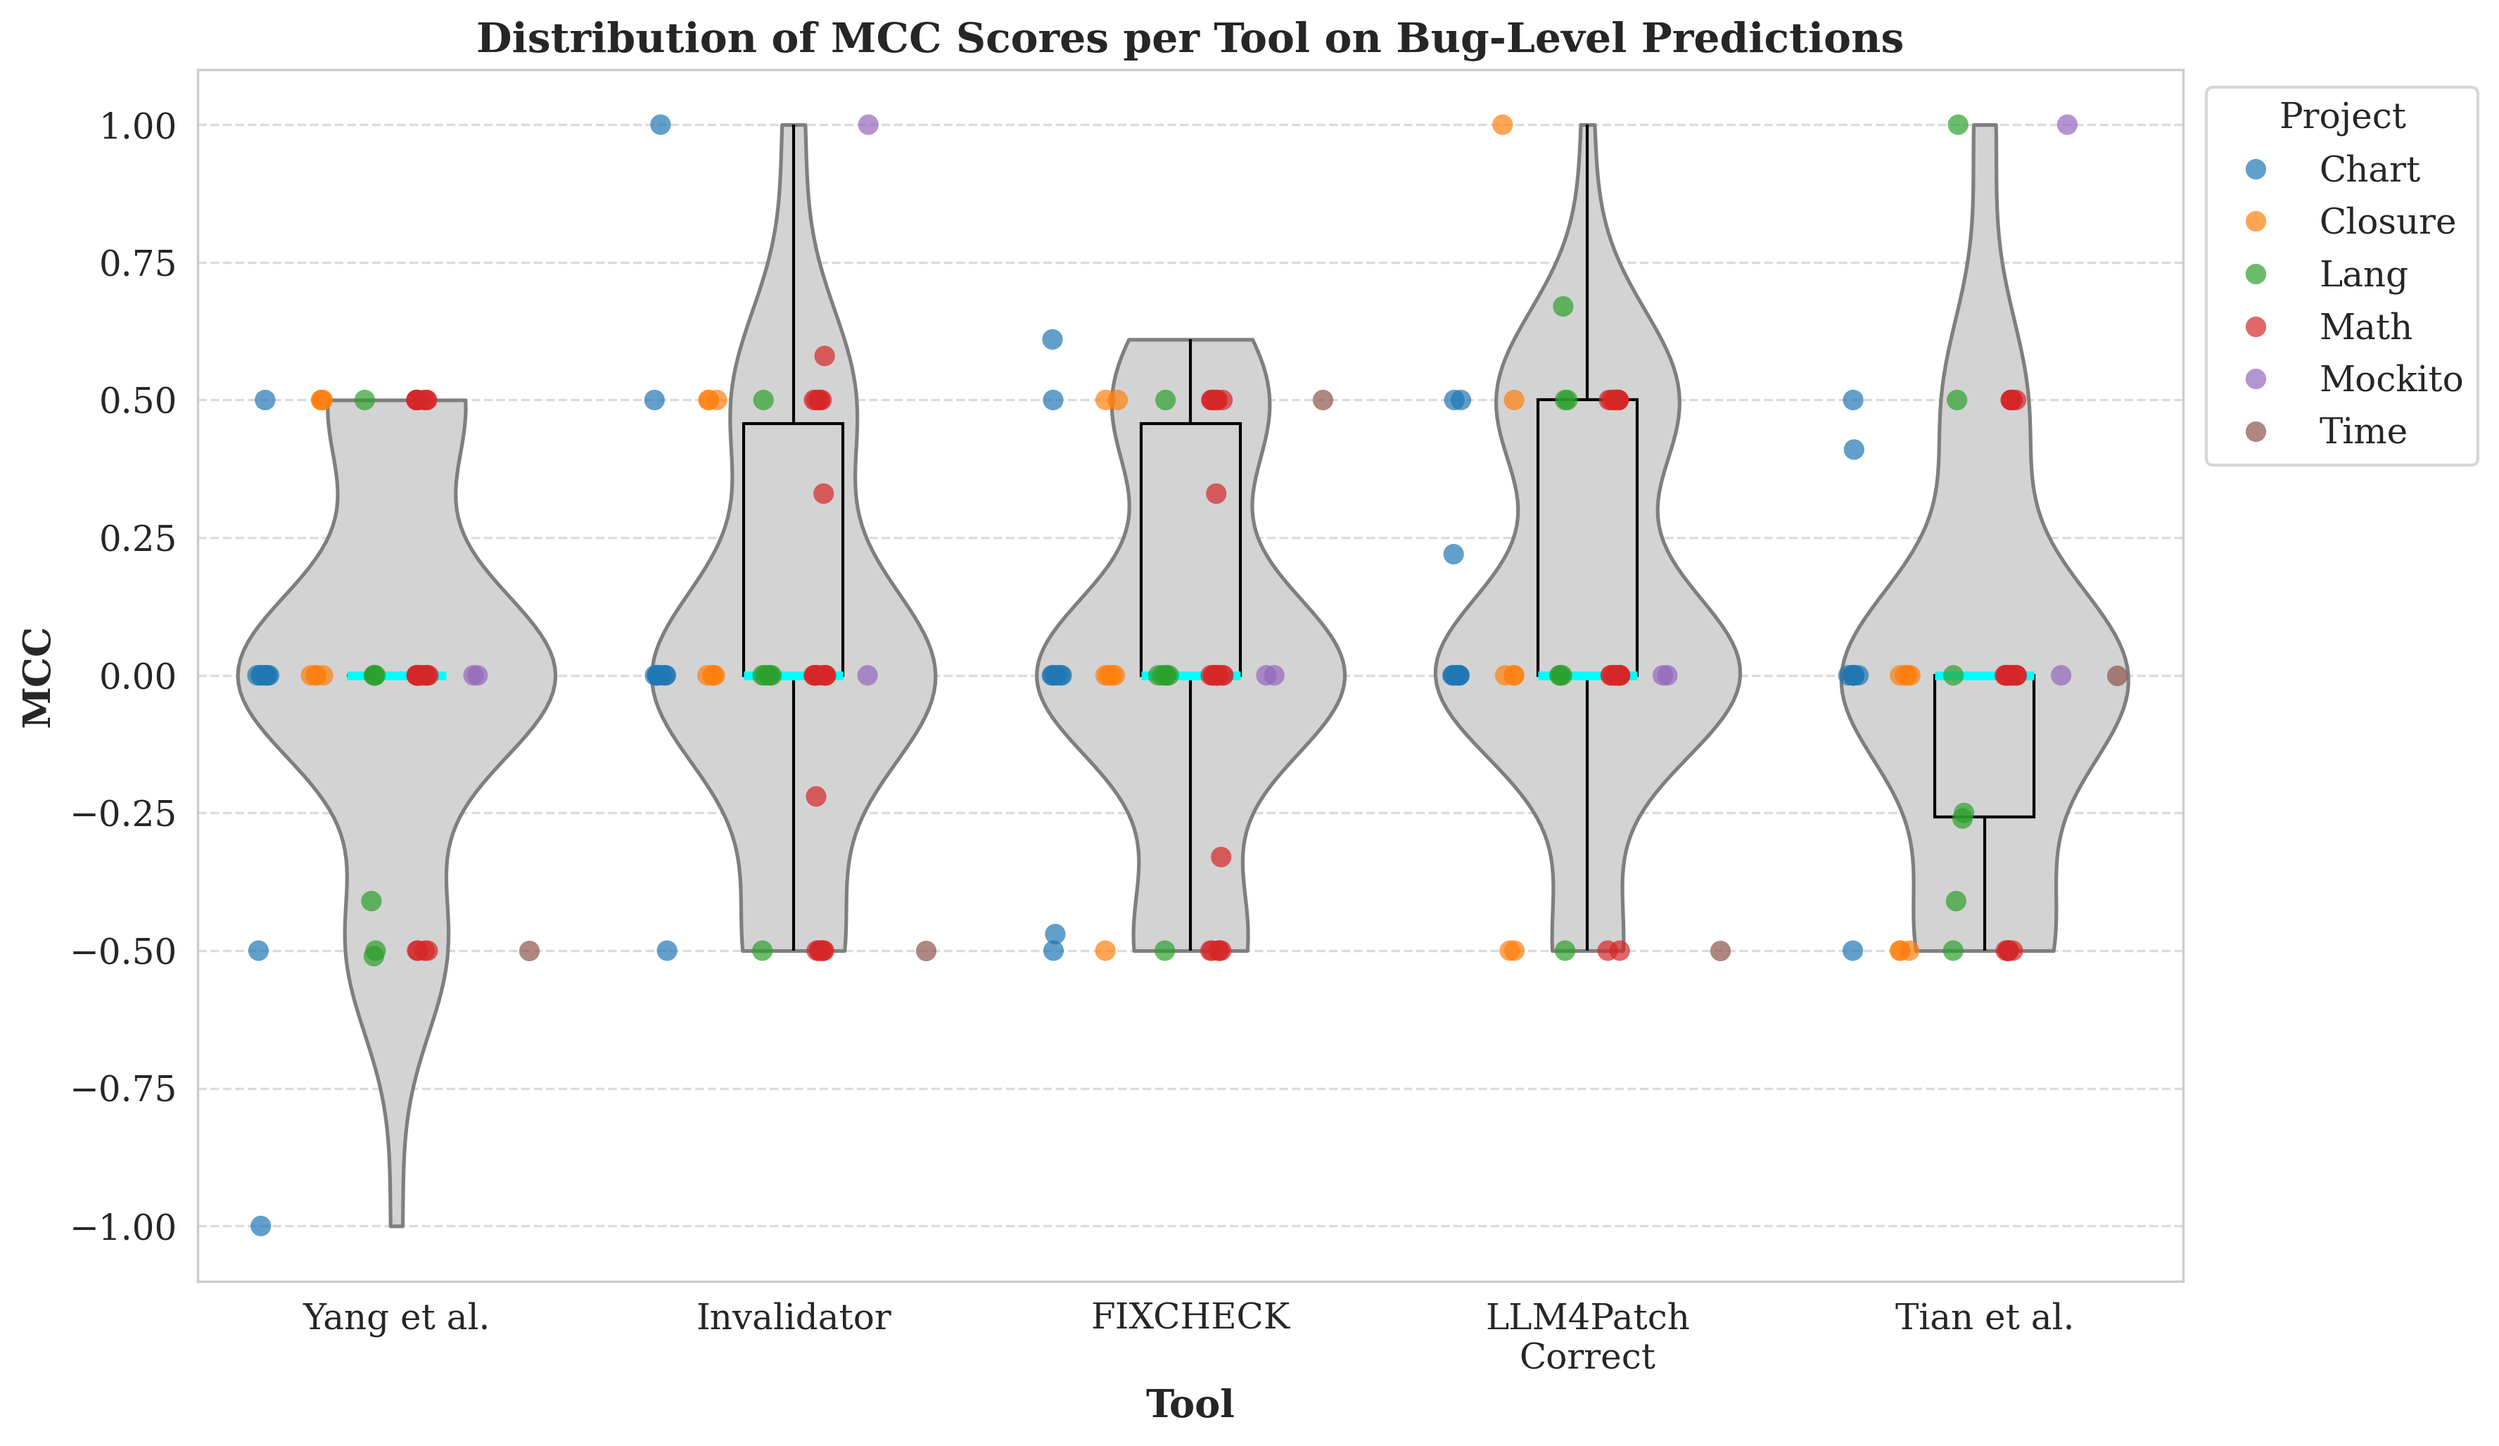
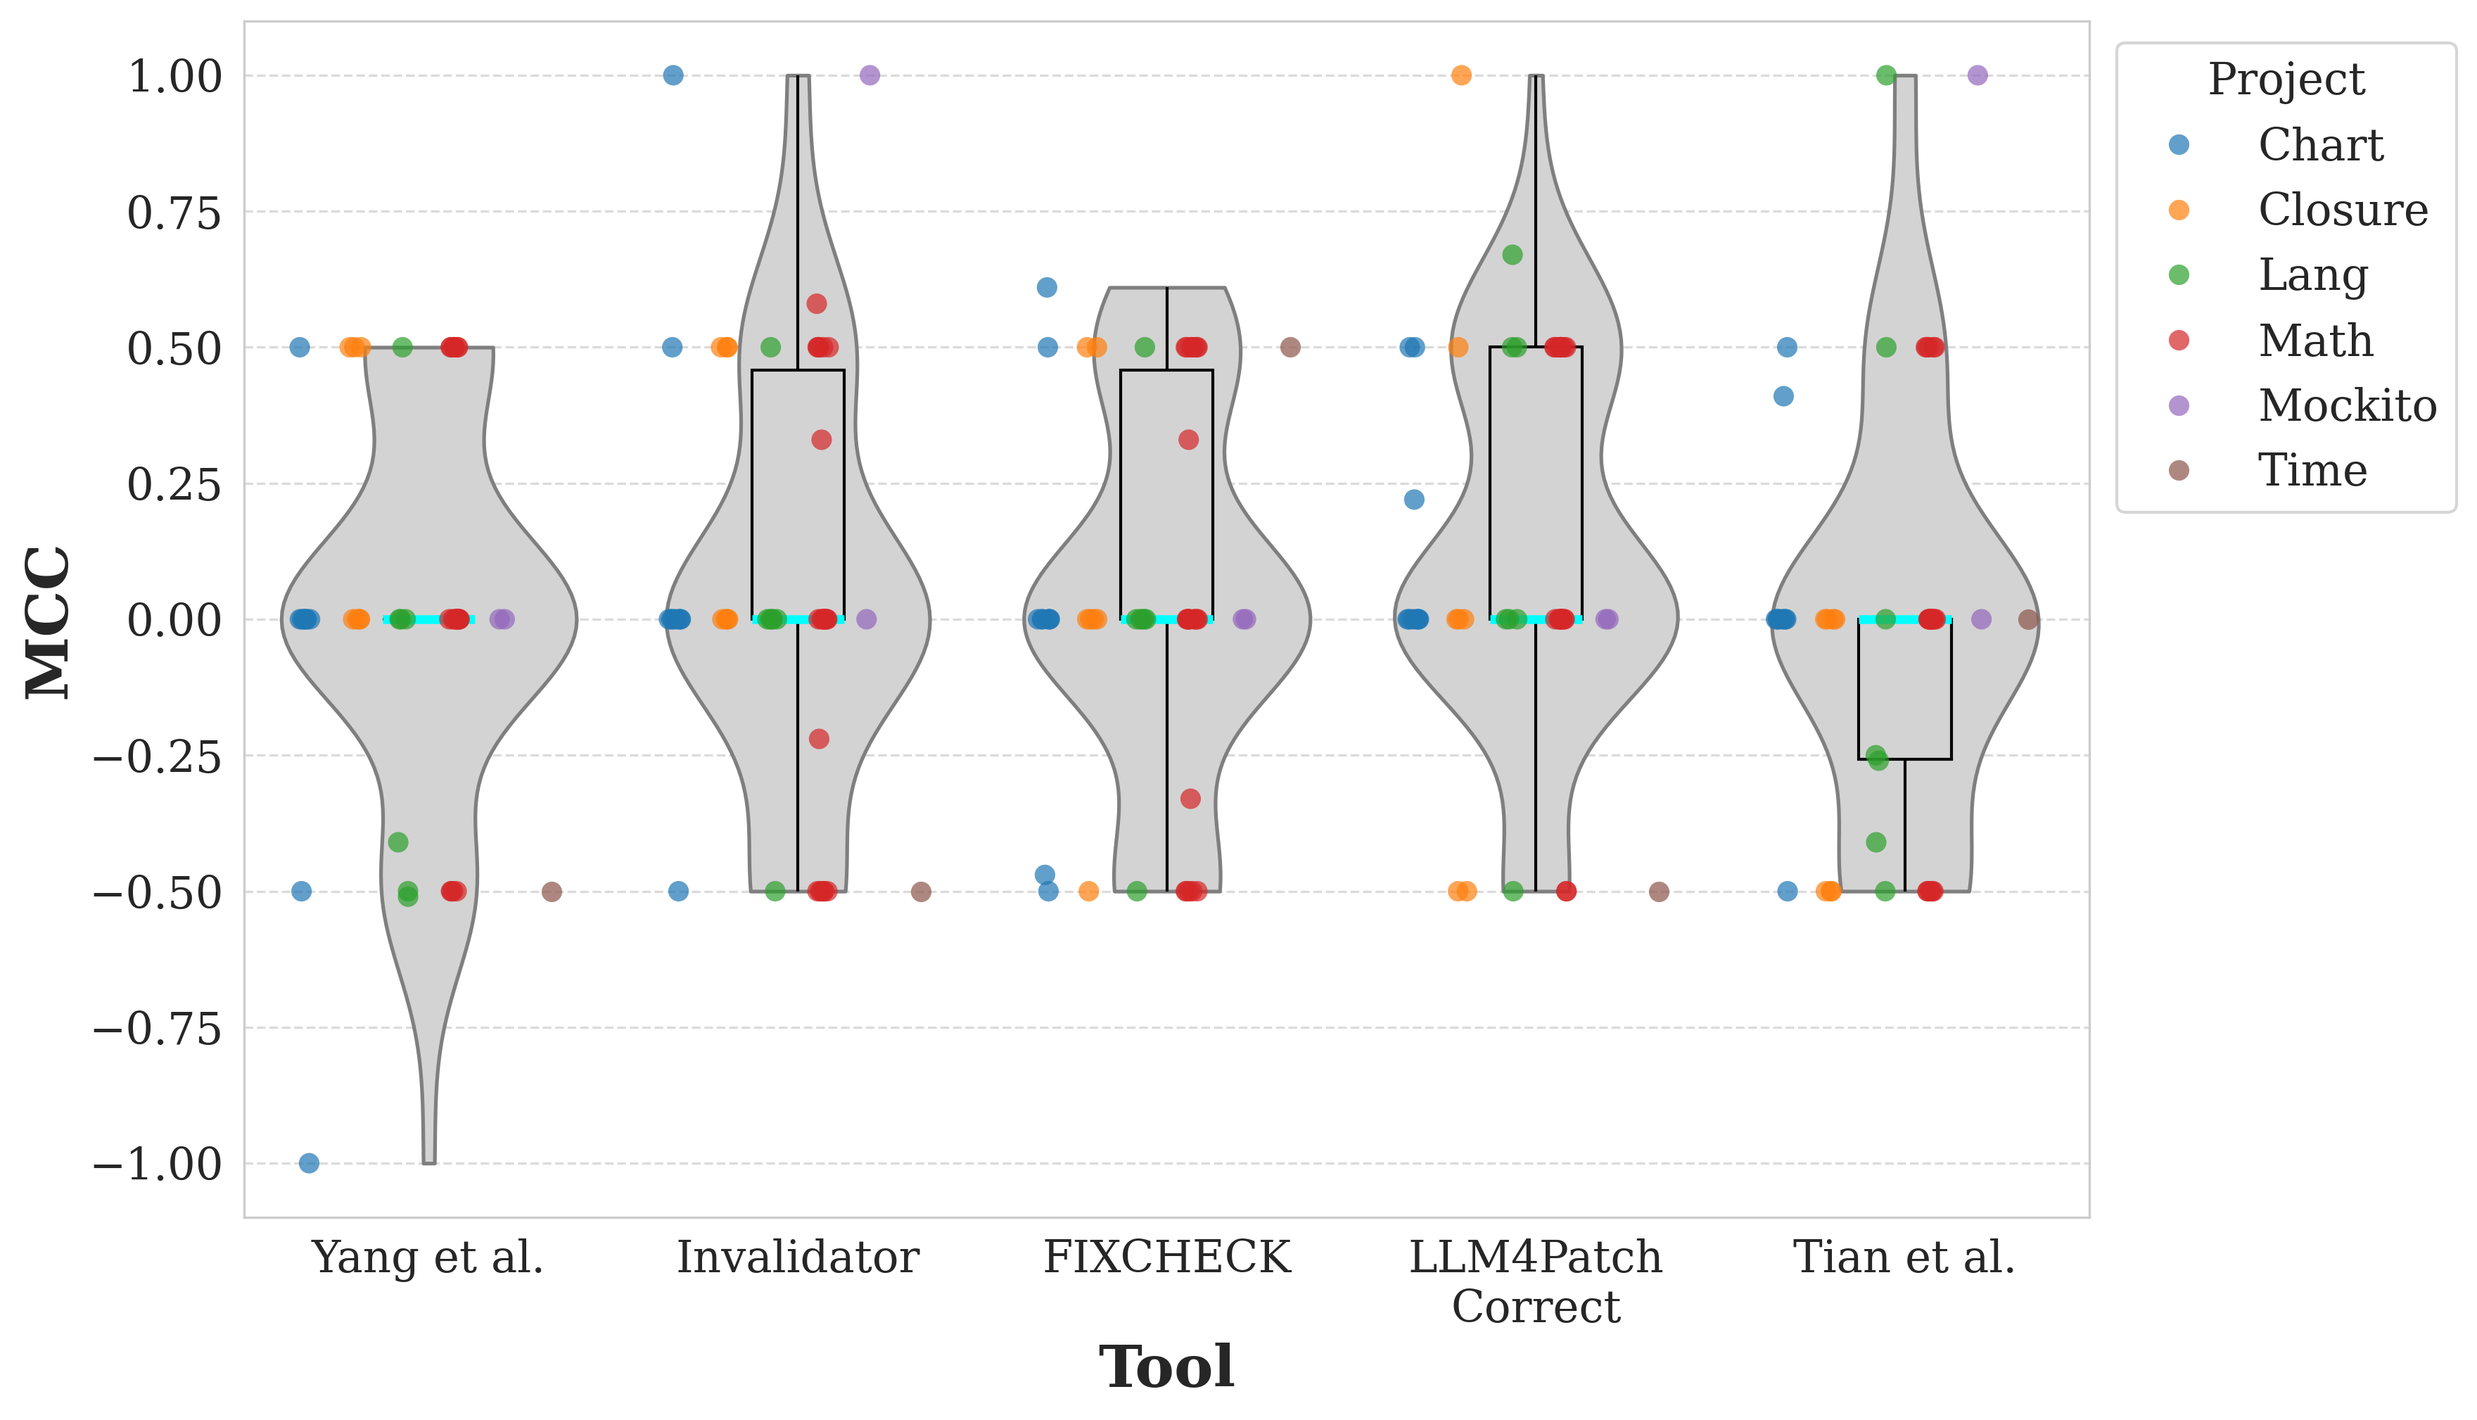
Updated violin plot script

diff --git a/figure_replication/scripts/produce_violin_plots.py b/figure_replication/scripts/produce_violin_plots.py
@@ -42,9 +42,9 @@ def create_violin_plot(csv_file, output_dir='.', color_by_project=False):
     sns.set_style("whitegrid")
     plt.rcParams.update({
         'font.family': 'serif',
-        'font.size': 12,
-        'axes.titlesize': 14,
-        'axes.labelsize': 13
+        'font.size': 15,
+        # 'axes.titlesize': 14,
+        'axes.labelsize': 20
     })
 
     plt.figure(figsize=(12, 7))
@@ -66,7 +66,7 @@ def create_violin_plot(csv_file, output_dir='.', color_by_project=False):
         sns.stripplot(x='Metric', y='Value', data=plot_df, size=5,
                       color='black', alpha=0.6)
 
-    plt.title('Distribution of MCC Scores per Tool on Bug-Level Predictions', fontweight='bold')
+    # plt.title('Distribution of MCC Scores per Tool on Bug-Level Predictions', fontweight='bold')
     plt.xlabel('Tool', fontweight='bold')
     plt.ylabel('MCC', fontweight='bold')
     plt.xticks(rotation=0)
